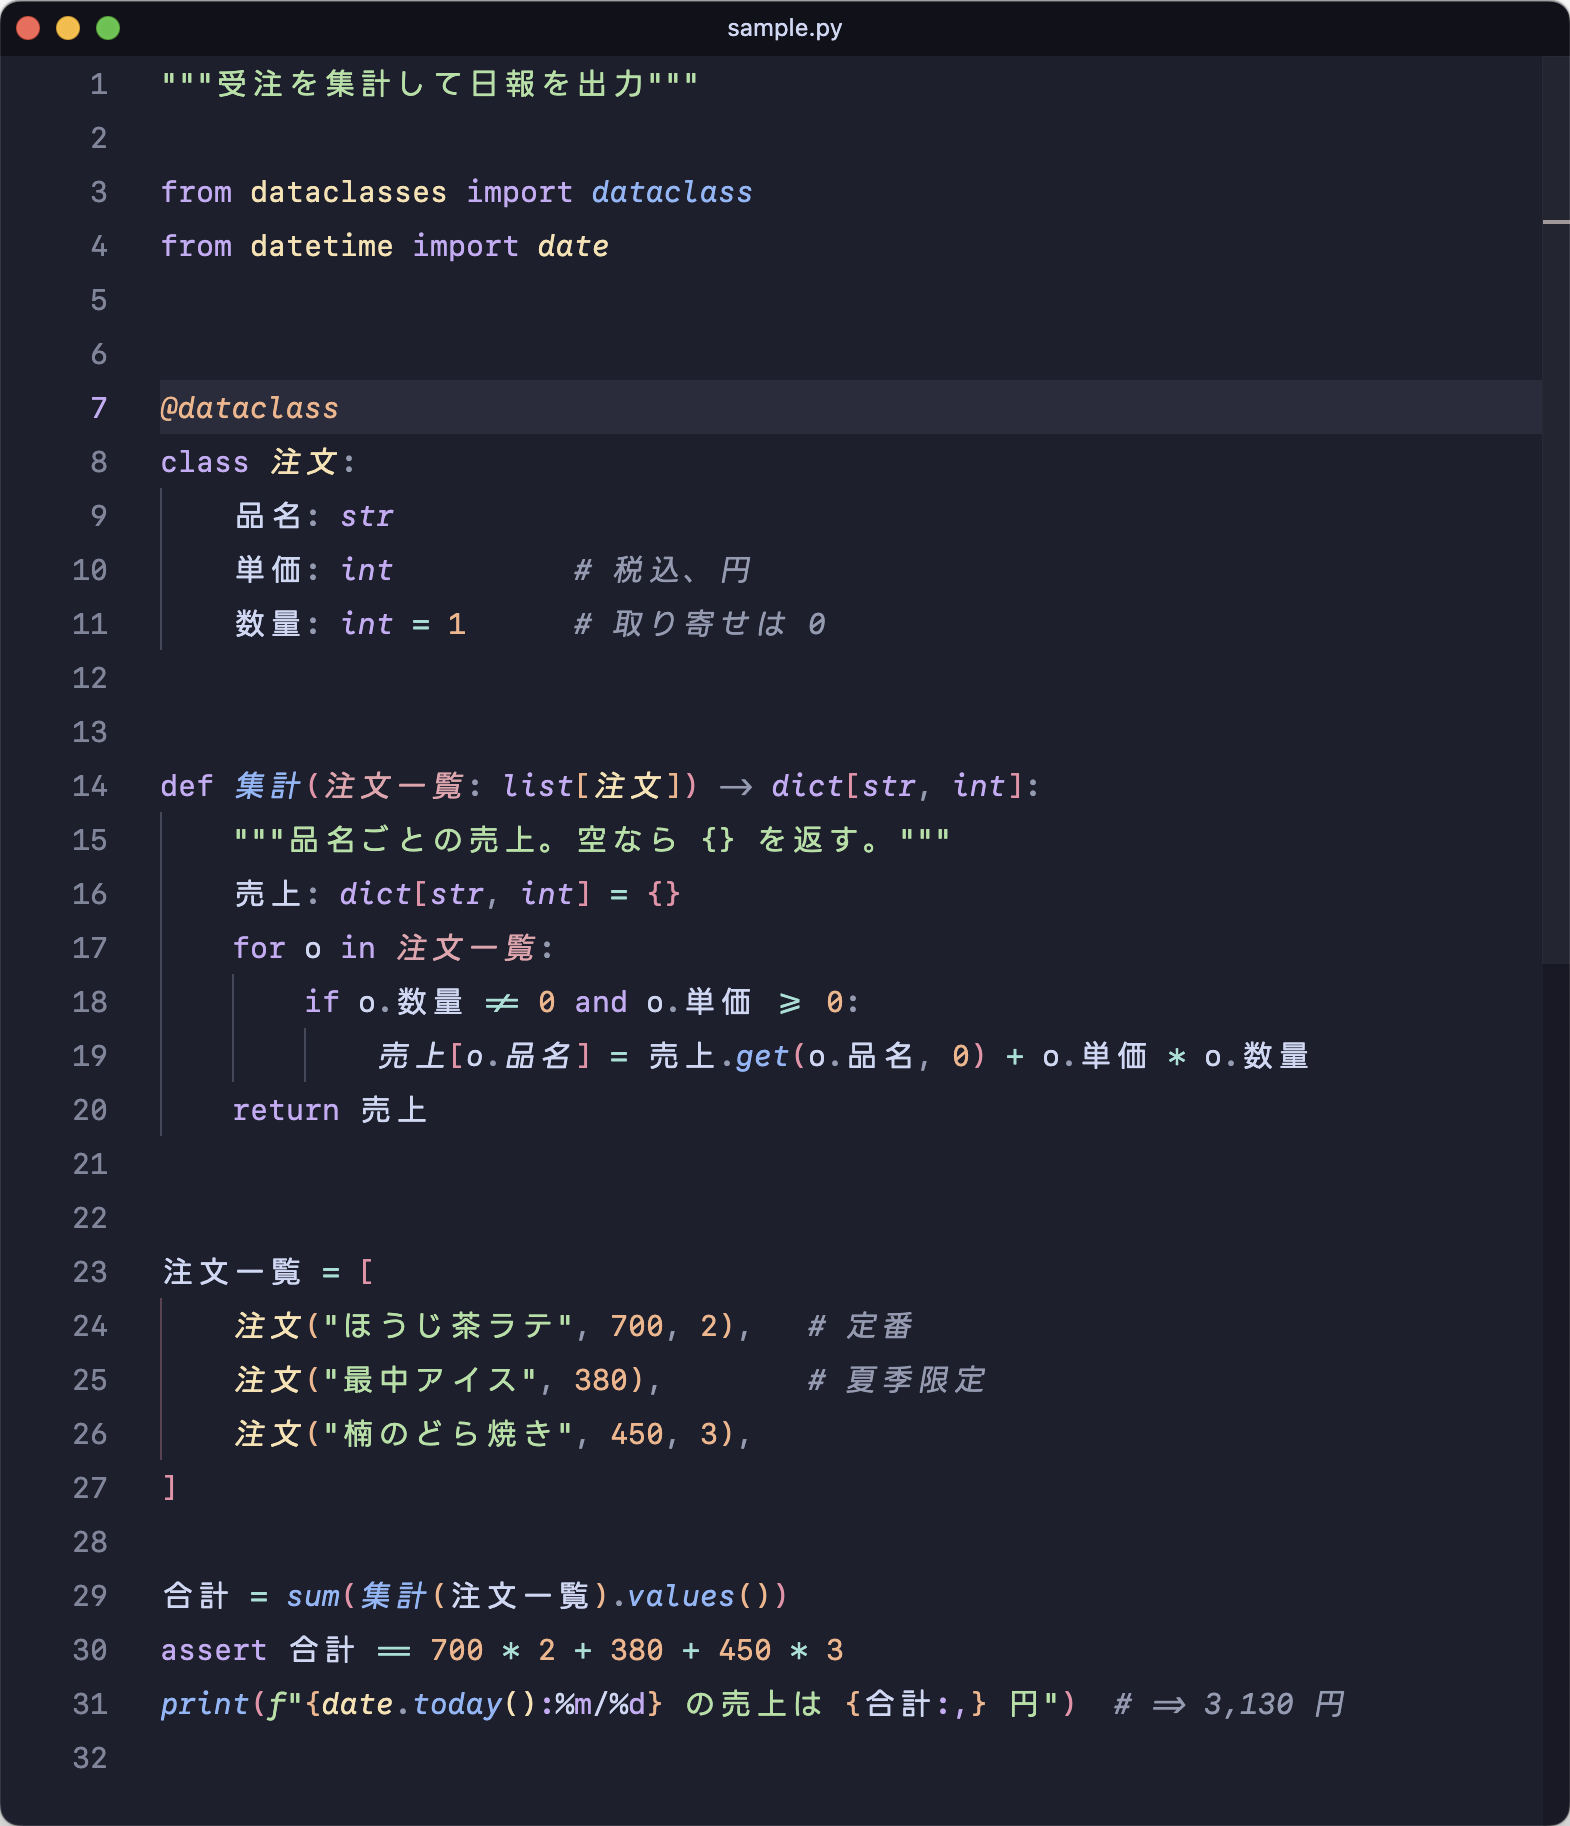
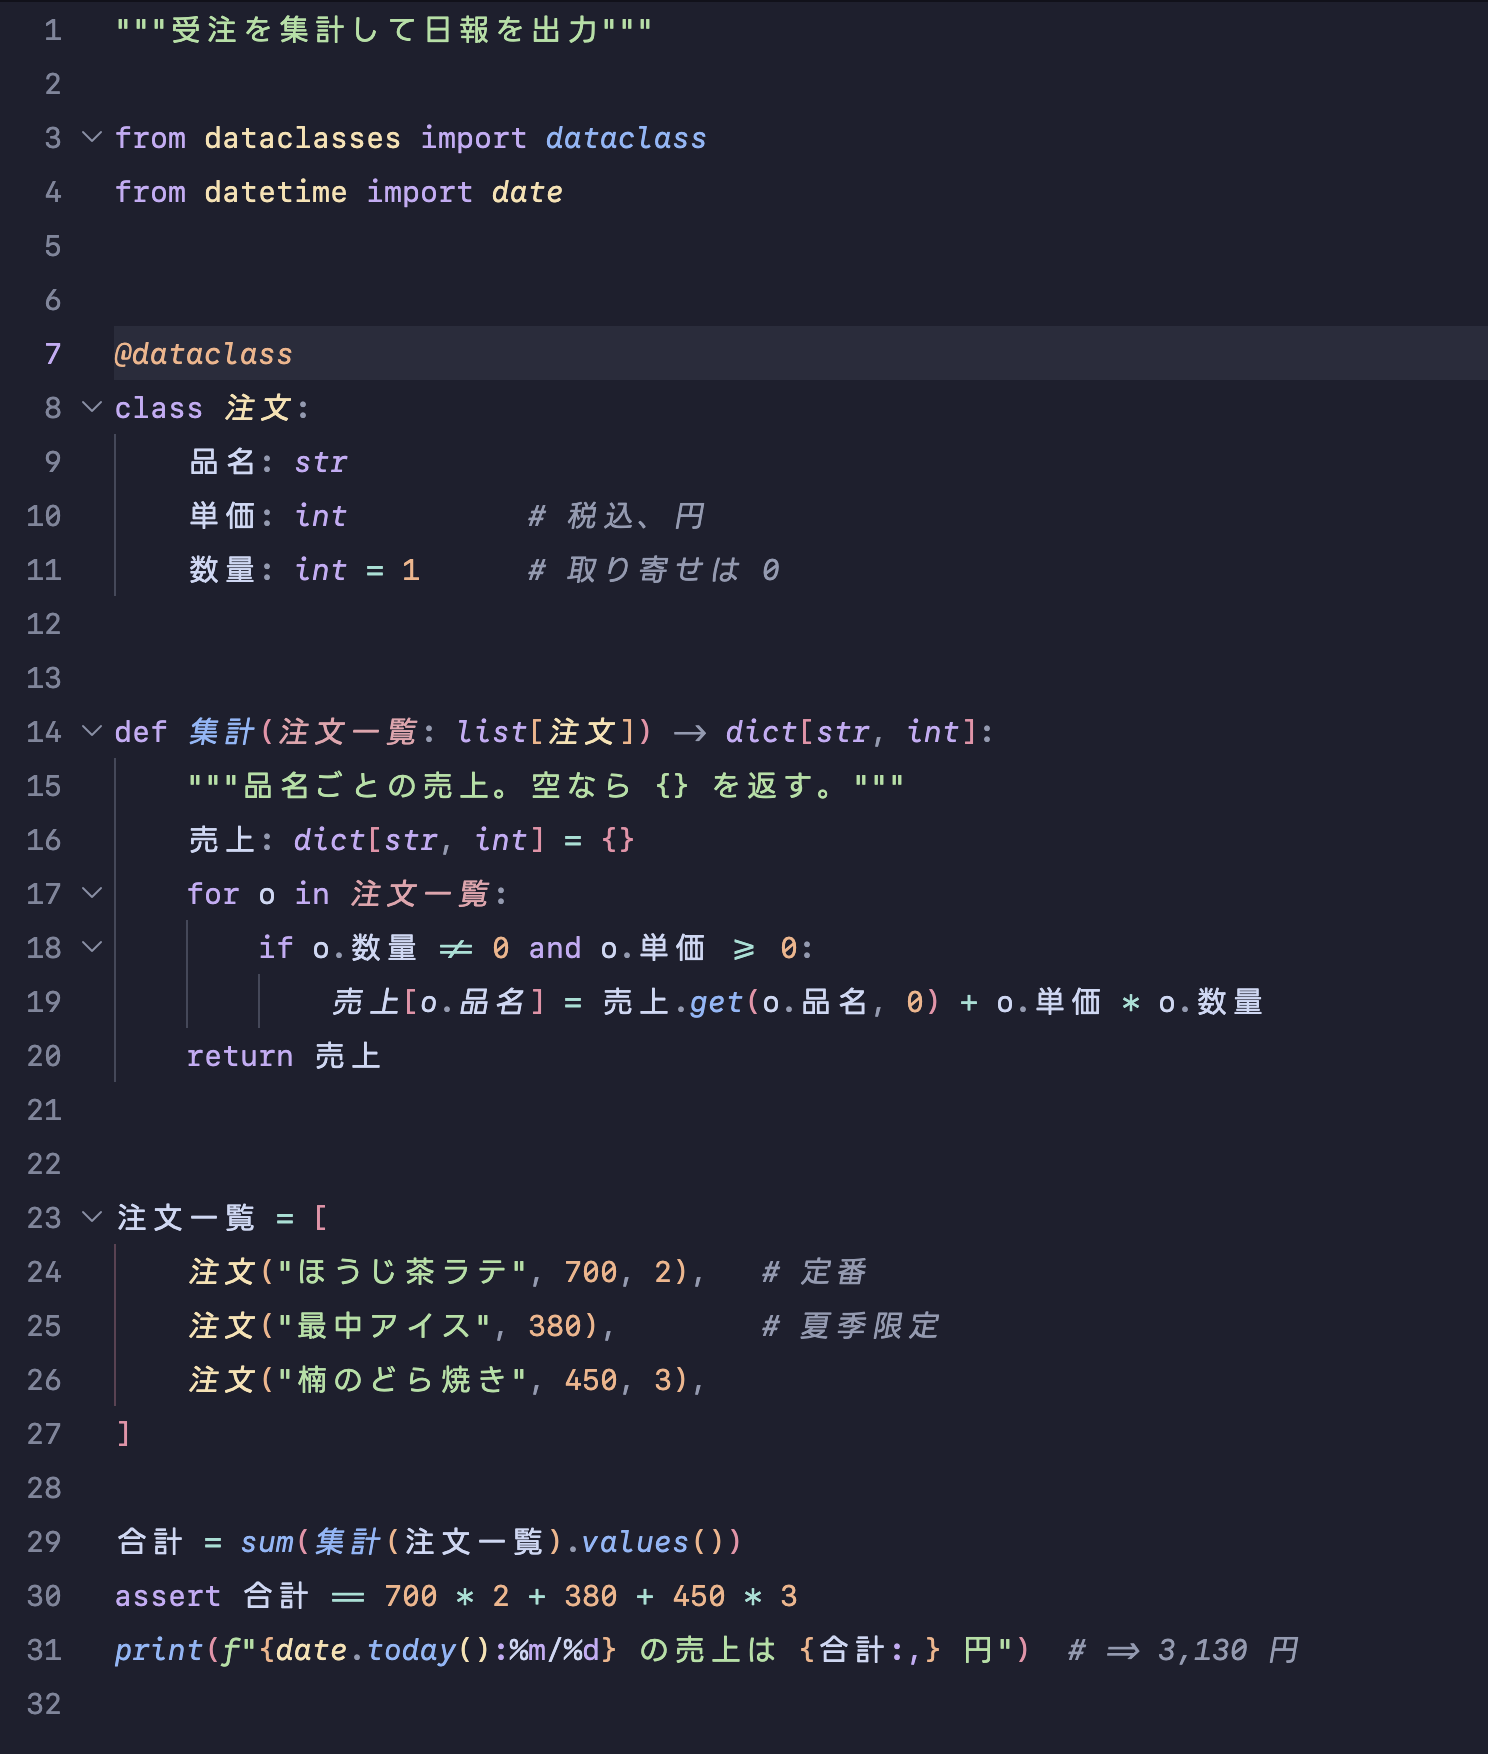
Merge grid and ligature sheets into the specimen; restructure the README
The specimen now carries the grid demo and the ligature/italic
comparison, so the README needs just two generated images. New order:
hero, description, features, specimen, install, development,
screenshots, license. The description sells the story (SF Mono squared
for Japanese, LINE Seed legibility, hand-picked GSC italic); the make
route loses its details fold; screenshots swap in the frameless editor
shot and add a full-width terminal shot.

diff --git a/docs/images/src/specimen.html b/docs/images/src/specimen.html
@@ -7,10 +7,10 @@
 @font-face { font-family:"KMBI"; src:url("../../../dist/KusunokiMono-BoldItalic.otf"); }
 * { margin:0; padding:0; box-sizing:border-box; }
 body {
-  width:1760px; height:1220px; background:#1e1e2e; color:#cdd6f4;
+  width:1760px; height:1980px; background:#1e1e2e; color:#cdd6f4;
   padding:64px 92px; font-family:"KM", monospace; overflow:hidden;
 }
-.sec { margin-bottom:44px; }
+.sec { margin-bottom:46px; }
 .h {
   font-family:-apple-system,sans-serif; font-size:21px; letter-spacing:2px;
   color:#6c7086; text-transform:uppercase; margin-bottom:14px;
@@ -27,6 +27,24 @@ pre { font-family:inherit; white-space:pre; font-feature-settings:"calt" on; fon
 .fbi { font-family:"KMBI", monospace; }
 .it { font-family:"KMI", monospace; }
 .cols { display:flex; gap:68px; align-items:flex-start; }
+.grid pre {
+  display:inline-block; font-size:34px; line-height:1.9;
+  background:repeating-linear-gradient(90deg, rgba(203,166,247,.085) 0 2ch, transparent 2ch 4ch);
+}
+.lrow { display:flex; align-items:center; gap:24px; }
+.lrow + .lrow { margin-top:12px; }
+.badge {
+  font-family:-apple-system,sans-serif; font-size:18px; font-weight:600;
+  letter-spacing:1px; width:104px; text-align:center; padding:6px 0;
+  border-radius:999px; border:1px solid transparent; flex:none;
+}
+.b-off, .b-reg { background:#313244; color:#7f849c; }
+.b-on { background:rgba(166,227,161,.16); color:#a6e3a1; border-color:rgba(166,227,161,.35); }
+.b-it { background:rgba(137,180,250,.16); color:#89b4fa; border-color:rgba(137,180,250,.35); }
+.ligs pre { font-size:34px; }
+.off pre { font-feature-settings:"calt" 0; color:#585b70; }
+.itl pre { font-family:"KMI", monospace; color:#b4befe; }
+.subsec + .subsec { margin-top:36px; }
 .punct pre { font-size:30px; }
 .leg pre { font-size:36px; line-height:1.55; }
 .icons pre { font-size:31px; letter-spacing:6px; color:#a6adc8; line-height:1.6; }
@@ -57,6 +75,27 @@ pre { font-family:inherit; white-space:pre; font-feature-settings:"calt" on; fon
       <pre>アイウエオ ガギグゲゴ ザジズゼゾ パピプペポ</pre>
       <pre>永東国愛雨楠 春夏秋冬 雪月風花</pre>
     </div>
+  </div>
+</div>
+
+<div class="sec grid">
+  <div class="h">Grid ── 半角 1 : 全角 2 (縞はすべて 2 桁幅)</div>
+  <pre>あのイーハトーヴォの、すきとおった風。
+ano ihatovo no sukitootta kaze....
+0123456789012345678901234567890123
+夏でも底に冷たさをもつ、青いそら。</pre>
+</div>
+
+<div class="sec ligs">
+  <div class="subsec">
+    <div class="h">Ligatures ── JetBrains Mono</div>
+    <div class="lrow off"><div class="badge b-off">OFF</div><pre>-> => >= <= == === != !== :: ... // /* */ && || ?? ?.</pre></div>
+    <div class="lrow"><div class="badge b-on">ON</div><pre>-> => >= <= == === != !== :: ... // /* */ && || ?? ?.</pre></div>
+  </div>
+  <div class="subsec">
+    <div class="h">Italics ── Google Sans Code</div>
+    <div class="lrow"><div class="badge b-reg">Regular</div><pre>quick brown fox jumps over the lazy dog 0123</pre></div>
+    <div class="lrow itl"><div class="badge b-it">Italic</div><pre>quick brown fox jumps over the lazy dog 0123</pre></div>
   </div>
 </div>
 

diff --git a/README.md b/README.md
@@ -8,9 +8,10 @@ English | [日本語](README.ja.md)
 ![version](https://img.badges.sh/version-v0.6.0-a6e3a1?labelColor=1e1e2e&logo=lucide:Tag&font=Space+Grotesk&fontWeight=500&labelFontWeight=700&messageFontWeight=700)
 [![homebrew](https://img.badges.sh/homebrew-peinan%2Fkusunoki--mono-fab387?labelColor=1e1e2e&logo=lucide:Beer&font=Space+Grotesk&fontWeight=500&labelFontWeight=700&messageFontWeight=700)](https://github.com/peinan/homebrew-kusunoki-mono)
 
-A Japanese coding font: SF Mono condensed to a square grid, layered with LINE Seed JP.
-
-![specimen](docs/images/specimen.png)
+Apple's beautifully crafted SF Mono, squared onto a Japanese-aligned grid and
+layered with LINE Seed JP, which stays crisp at small sizes. The italic is
+Google Sans Code's, hand-picked letter by letter to sit well with SF Mono —
+with JetBrains Mono ligatures and Nerd Fonts icons built in.
 
 </div>
 
@@ -22,15 +23,7 @@ A Japanese coding font: SF Mono condensed to a square grid, layered with LINE Se
 - **Google Sans Code** true italic
 - **Nerd Fonts** icons
 
-![grid](docs/images/grid.png)
-
-![ligatures](docs/images/ligatures.png)
-
-## Screenshots
-
-| | |
-| --- | --- |
-| ![editor](docs/images/editor.png) | ![git log](docs/images/gitlog.png) |
+![specimen](docs/images/specimen.png)
 
 ## Install
 
@@ -44,9 +37,9 @@ cp "$(brew --prefix)/share/fonts/KusunokiMono-"*.otf ~/Library/Fonts/
 
 Set your terminal or editor font to **Kusunoki Mono**.
 
-<details>
-<summary><b>Build with make (for the tuning knobs)</b></summary>
+### Build with make
 
+To tweak the font, build with make — the knobs below are env vars for `make build`.
 Requirements: [Homebrew][brew], [`uv`][uv]
 
 ```sh
@@ -55,9 +48,6 @@ make setup   # fetch the source fonts and the nerd-fonts patcher
 make build   # → dist/KusunokiMono-{Regular,Bold,Italic,BoldItalic}.otf
 cp dist/KusunokiMono-*.otf ~/Library/Fonts/
 ```
-
-Env vars for `make build`; Homebrew scrubs custom env vars, so tune via
-this route:
 
 | Variable | Default | Effect |
 | --- | --- | --- |
@@ -68,11 +58,17 @@ this route:
 | `KM_AMBIGUOUS_WIDTH` | `narrow` | Cells for East-Asian-ambiguous symbols like ※ ★ ℃; `narrow` is 1 cell and safe in strict terminals like Ghostty, `wide` is 2 cells |
 | `KM_SFMS_DIR` | `~/Library/Fonts` | Where `SFMonoSquare-*.otf` lives, used to size icons to match; the step is skipped if absent |
 
-</details>
-
 ## Development
 
 Pipeline internals are documented in [docs/development.md](docs/development.md).
+
+## Screenshots
+
+| | |
+| --- | --- |
+| ![editor](docs/images/editor.png) | ![git log](docs/images/gitlog.png) |
+
+![terminal](docs/images/terminal.png)
 
 ## Licensing
 

diff --git a/docs/images/src/README.md b/docs/images/src/README.md
@@ -5,10 +5,8 @@ Rendered with the built font. After `make build`, regenerate with:
 ```sh
 CHROME="/Applications/Google Chrome.app/Contents/MacOS/Google Chrome"
 cd docs/images/src
-"$CHROME" --headless=new --hide-scrollbars --window-size=1760,500  --screenshot=../hero.png      hero.html
-"$CHROME" --headless=new --hide-scrollbars --window-size=1760,1220 --screenshot=../specimen.png  specimen.html
-"$CHROME" --headless=new --hide-scrollbars --window-size=1760,480  --screenshot=../grid.png      grid.html
-"$CHROME" --headless=new --hide-scrollbars --window-size=1760,560  --screenshot=../ligatures.png ligatures.html
+"$CHROME" --headless=new --hide-scrollbars --window-size=1760,500  --screenshot=../hero.png     hero.html
+"$CHROME" --headless=new --hide-scrollbars --window-size=1760,1980 --screenshot=../specimen.png specimen.html
 ```
 
 `editor-sample.py` is not a page: open it in a real editor and screenshot it